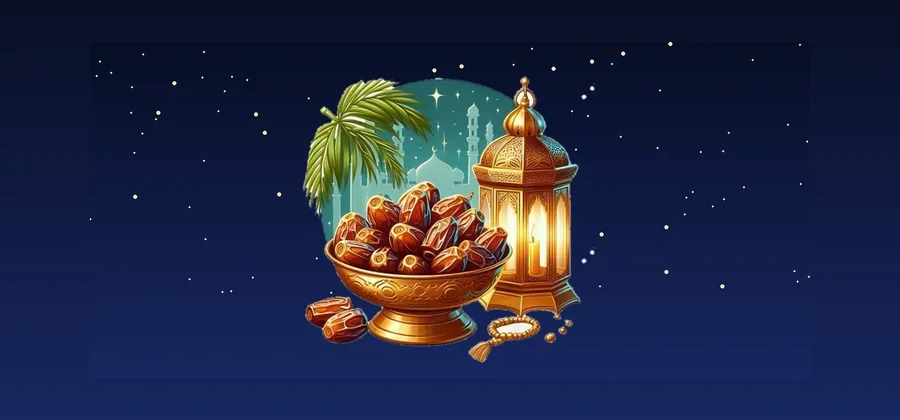
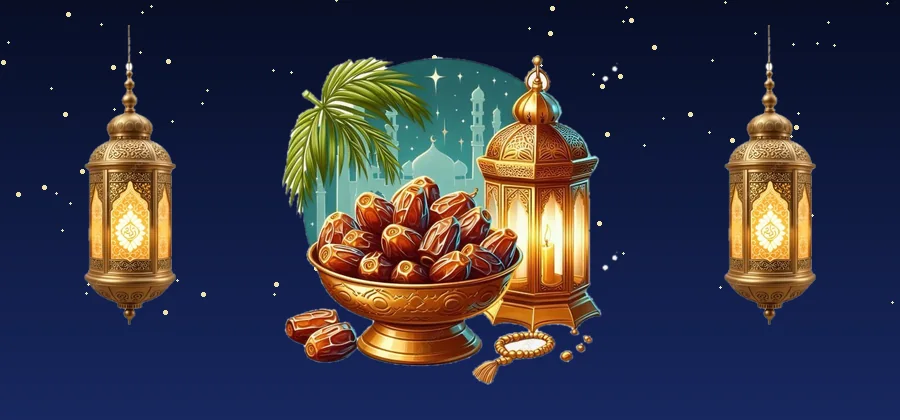
ثيمات الواجب: صور الأرشيف المرفق (طفل القرآن لشعبان، عيد وبالونات لشوال، فوانيس وراية ووسام لرمضان)
Claude-Session: https://claude.ai/code/session_011ARApMmZBQ999fruQWjLgN

diff --git a/previews/homework-monthly-themes.html b/previews/homework-monthly-themes.html
@@ -51,7 +51,7 @@ body { background:var(--pbg); color:var(--pink); line-height:1.6; }
 .hero::after { content:""; position:absolute; inset:auto 0 0 0; height:46px; background:linear-gradient(transparent,var(--surface)); }
 .orn { position:absolute; top:0; width:64px; pointer-events:none; z-index:2; filter:drop-shadow(0 2px 4px rgba(0,0,0,.25)); }
 .orn.l { left:0; } .orn.r { right:0; }
-.garland { position:absolute; top:0; left:50%; transform:translateX(-50%); width:70%; height:120px; object-fit:cover; object-position:top; z-index:2; pointer-events:none; }
+.garland { position:absolute; top:0; left:50%; transform:translateX(-50%); width:86%; max-height:96px; object-fit:contain; object-position:top; z-index:2; pointer-events:none; }
 .strip { height:54px; margin:-12px -14px 8px; border-radius:18px 18px 0 0; background:center/cover no-repeat; position:relative; }
 .strip::after { content:""; position:absolute; inset:auto 0 0 0; height:26px; background:linear-gradient(transparent,var(--surface)); }
 .logo { width:54px; height:54px; border-radius:16px; margin:-38px auto 6px; border:4px solid var(--surface); position:relative; z-index:3; display:grid; place-items:center; background:var(--accent); color:var(--onAccent); font-size:1.5rem; font-weight:700; }
@@ -91,6 +91,7 @@ body { background:var(--pbg); color:var(--pink); line-height:1.6; }
 .big { font-size:3.2rem; line-height:1.1; }
 .medal { margin:12px auto 4px; width:150px; height:150px; border-radius:50%; position:relative; background:center/cover no-repeat; border:7px solid var(--hi); box-shadow:0 10px 24px rgba(0,0,0,.30), 0 0 0 3px color-mix(in srgb,var(--hi) 45%,transparent), inset 0 0 0 2px rgba(255,255,255,.5); }
 .medal b { position:absolute; bottom:-14px; left:50%; transform:translateX(-50%); width:38px; height:38px; border-radius:50%; display:grid; place-items:center; background:var(--hi); color:var(--onHi); font-size:1.3rem; line-height:1; box-shadow:0 3px 8px rgba(0,0,0,.35); }
+.medalimg { display:block; width:150px; height:150px; object-fit:contain; margin:8px auto 0; filter:drop-shadow(0 8px 14px rgba(0,0,0,.3)); }
 .mlab { display:inline-block; margin:12px 0 4px; padding:3px 14px; border-radius:99px; background:var(--hi); color:var(--onHi); font-weight:700; font-size:.82rem; }
 .score { font-size:1.6rem; font-weight:700; color:var(--accent); }
 .encs { margin-top:10px; display:grid; gap:6px; }
@@ -175,6 +176,7 @@ const T = [
    D:['#0b0b0b','#171717','#f3f0e6','#b5b0a0','#e6c24c','#1a1400','#f1f0ea','#141414','#1f1c10','#a8872a','#272414','#38341f'] }
 ];
 const ORI = {1:'bl',2:'tl',3:'bl',4:'bl',5:'br',6:'tr',7:'br',8:'bl',10:'bl',11:'tl',12:'bl'};
+const DECO = {8:1,9:1,10:1}, MEDAL_IMG = {9:1};
 const pad = n => String(n).padStart(2, '0');
 const A = (n, k) => `../assets/themes/m${pad(n)}-${k}.webp`;
 function orn(n, side) { const o = ORI[n]; if (!o) return ''; let sx = o.includes('r') ? -1 : 1; const sy = o.includes('b') ? -1 : 1; if (side === 'r') sx = -sx; return `<img class="orn ${side}" alt="" src="${A(n, 'corner')}" style="transform:scale(${sx},${sy})">`; }
@@ -236,9 +238,9 @@ function render() {
             <div class="nav2"><button class="btn g">${u.prev}</button><button class="btn">${u.next}</button></div></div>
           <div class="enc">${esc(x.enc[0])}</div></div></div>
         <div><div class="fcap">${u.f3}</div><div class="scr done" style="background-image:linear-gradient(color-mix(in srgb,var(--bg) 90%,transparent),color-mix(in srgb,var(--bg) 95%,transparent)),url(${A(t.n, 'hero')})"><div class="fall">${fall}</div>
-          ${ORI[t.n] ? orn(t.n, 'l') + orn(t.n, 'r') : ''}${t.n === 9 ? `<img class="garland" alt="" src="${A(9, 'garland')}">` : ''}
-          <h3 style="color:var(--accent);margin:34px 0 6px">${u.fin}</h3>
-          <div class="medal" style="background-image:url(${A(t.n, 'hero')})"><b>${t.glyph}</b></div><span class="mlab">${u.medalL}: ${esc(x.medal)}</span>
+          ${ORI[t.n] ? orn(t.n, 'l') + orn(t.n, 'r') : ''}${DECO[t.n] ? `<img class="garland" alt="" src="${A(t.n, 'deco')}">` : ''}
+          <h3 style="color:var(--accent);margin:${DECO[t.n] ? 100 : 34}px 0 6px">${u.fin}</h3>
+          ${MEDAL_IMG[t.n] ? `<img class="medalimg" alt="" src="${A(t.n, 'medal')}">` : `<div class="medal" style="background-image:url(${A(t.n, 'hero')})"><b>${t.glyph}</b></div>`}<span class="mlab">${u.medalL}: ${esc(x.medal)}</span>
           <div style="color:var(--ink2)">${u.scoreL}</div><div class="score">${u.score}</div>
           <p style="margin:8px 0;font-weight:700;color:var(--ink)">${esc(x.done)}</p>
           <div class="encs">${x.enc.map(e => `<div>${esc(e)}</div>`).join('')}</div></div></div>
